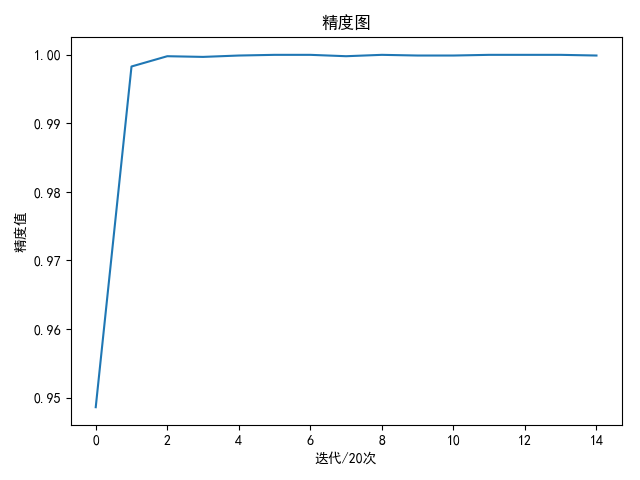
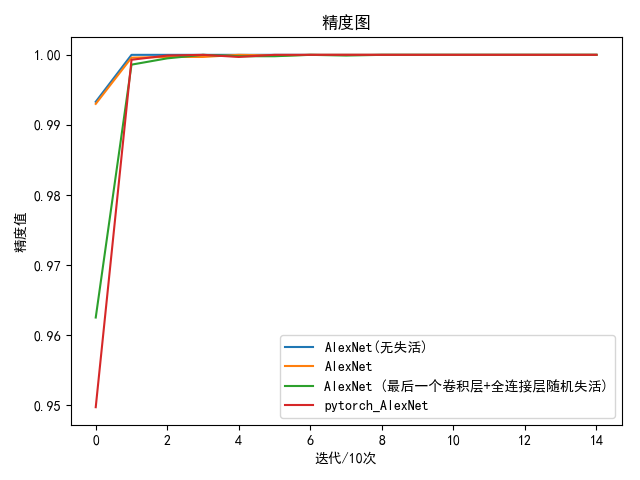
docs(AlexNet): 修改参数，训练多个AlexNet网络并测试

diff --git a/blogs/source/_posts/AlexNet-pytorch.md b/blogs/source/_posts/AlexNet-pytorch.md
@@ -104,6 +104,45 @@ tensor([[[[ 6.,  8.],
 
 `pytorch`提供了一个修改后`AlexNet`实现：[ vision/torchvision/models/alexnet.py ](https://github.com/pytorch/vision/blob/master/torchvision/models/alexnet.py)
 
+```
+class AlexNet(nn.Module):
+
+    def __init__(self, num_classes=1000):
+        super(AlexNet, self).__init__()
+        self.features = nn.Sequential(
+            nn.Conv2d(3, 64, kernel_size=11, stride=4, padding=2),
+            nn.ReLU(inplace=True),
+            nn.MaxPool2d(kernel_size=3, stride=2),
+            nn.Conv2d(64, 192, kernel_size=5, padding=2),
+            nn.ReLU(inplace=True),
+            nn.MaxPool2d(kernel_size=3, stride=2),
+            nn.Conv2d(192, 384, kernel_size=3, padding=1),
+            nn.ReLU(inplace=True),
+            nn.Conv2d(384, 256, kernel_size=3, padding=1),
+            nn.ReLU(inplace=True),
+            nn.Conv2d(256, 256, kernel_size=3, padding=1),
+            nn.ReLU(inplace=True),
+            nn.MaxPool2d(kernel_size=3, stride=2),
+        )
+        self.avgpool = nn.AdaptiveAvgPool2d((6, 6))
+        self.classifier = nn.Sequential(
+            nn.Dropout(),
+            nn.Linear(256 * 6 * 6, 4096),
+            nn.ReLU(inplace=True),
+            nn.Dropout(),
+            nn.Linear(4096, 4096),
+            nn.ReLU(inplace=True),
+            nn.Linear(4096, num_classes),
+        )
+
+    def forward(self, x):
+        x = self.features(x)
+        x = self.avgpool(x)
+        x = x.view(x.size(0), 256 * 6 * 6)
+        x = self.classifier(x)
+        return x
+```
+
 原始`AlexNet`实现如下：
 
 ```
@@ -143,6 +182,17 @@ class AlexNet(nn.Module):
         return x
 ```
 
+**相比于原实现，修改后的`AlexNet`网络减少了第一层滤波器个数（`96->64`）和第四个滤波器个数（`384->256`），在最后一个卷积层和第一个全连接进行了随机失活操作**
+
+### 训练
+
+操作`AlexNet`模型以及`Pytorch`实现，调整参数，训练如下`4`个网络
+
+1. `AlexNet`(无失活)
+2. `AlexNet`
+3. `AlexNet`(最后一个卷积层+全连接层随机失活)
+4. `pytorch_AlexNet`
+
 训练参数如下：
 
 * 批量大小`batch_size=256`
@@ -177,11 +227,51 @@ lr = 1e-2
 
 
 class AlexNet(nn.Module):
-    。。。
-    。。。
+
+    def __init__(self, num_classes=1000):
+        super(AlexNet, self).__init__()
+        self.features = nn.Sequential(
+            nn.Conv2d(3, 96, kernel_size=11, stride=4, padding=0),
+            nn.ReLU(inplace=True),
+            nn.MaxPool2d(kernel_size=3, stride=2),
+            nn.Conv2d(96, 256, kernel_size=5, stride=1, padding=2),
+            nn.ReLU(inplace=True),
+            nn.MaxPool2d(kernel_size=3, stride=2),
+            nn.Conv2d(256, 384, kernel_size=3, stride=1, padding=1),
+            nn.ReLU(inplace=True),
+            nn.Conv2d(384, 384, kernel_size=3, stride=1, padding=1),
+            nn.ReLU(inplace=True),
+            nn.Conv2d(384, 256, kernel_size=3, stride=1, padding=1),
+            nn.ReLU(inplace=True),
+            nn.MaxPool2d(kernel_size=3, stride=2),
+        )
+        self.classifier = nn.Sequential(
+            nn.Dropout(),
+            nn.Linear(256 * 6 * 6, 4096),
+            nn.ReLU(inplace=True),
+            nn.Dropout(),
+
+            nn.Linear(4096, 4096),
+            nn.ReLU(inplace=True),
+            nn.Dropout(),
+
+            nn.Linear(4096, num_classes),
+        )
+
+    def forward(self, x):
+        x = self.features(x)
+        x = x.view(x.size(0), 256 * 6 * 6)
+        x = self.classifier(x)
+        return x
+
+
+class AlexNet_v2(nn.Module):
+    ...
+
 
 def load_cifar_10_data(batch_size=128, shuffle=False):
     data_dir = '/home/lab305/Documents/data/cifar_10/'
+    # data_dir = '/home/zj/zj/data/cifar_10/'
 
     transform = transforms.Compose([
         transforms.Resize((227, 227)),
@@ -217,8 +307,10 @@ if __name__ == '__main__':
     train_loader, test_loader = load_cifar_10_data(batch_size=batch_size, shuffle=True)
 
     device = torch.device("cuda:0" if torch.cuda.is_available() else "cpu")
+    # device = torch.device("cpu")
 
-    net = AlexNet(num_classes=10).to(device)
+    # net = AlexNet(num_classes=10).to(device)
+    net = AlexNet_v2(num_classes=10).to(device)
     criterion = nn.CrossEntropyLoss().to(device)
     optimer = optim.SGD(net.parameters(), lr=lr, momentum=0.9, nesterov=True)
 
@@ -248,8 +340,8 @@ if __name__ == '__main__':
         end = time.time()
 
         avg_loss = total_loss / num
-        loss_list.append(float('%.4f' % avg_loss))
-        print('epoch: %d time: %.2f loss: %.4f' % (i + 1, end - start, avg_loss))
+        loss_list.append(float('%.8f' % avg_loss))
+        print('epoch: %d time: %.2f loss: %.8f' % (i + 1, end - start, avg_loss))
 
         if i % 20 == 19:
             # 计算训练数据集检测精度
@@ -269,12 +361,21 @@ if __name__ == '__main__':
             print(train_list)
 ```
 
-`300`次迭代后结果
+### 测试
 
-```
-best train accuracy: 100.00 %   best test accuracy: 86.81 %
-```
+`300`次训练完成后测试结果如下：
 
-![](/imgs/Alexnet-pytorch/alexnet_loss.png)
+|                                    	| 训练精度 	| 测试精度 	|
+|:----------------------------------:	|:--------:	|:--------:	|
+|           AlexNet(无失活)          	| 100.00 % 	|  80.24 % 	|
+|               AlexNet              	| 100.00 % 	|  84.48 % 	|
+| AlexNet (最后一个卷积层+全连接层随机失活) 	| 100.00 % 	|  87.00 % 	|
+|           pytorch_AlexNet          	| 100.00 % 	|  86.76 % 	|
 
-![](/imgs/Alexnet-pytorch/alexnet_accuracy.png)
+损失值和训练集精度如下：
+
+![](../imgs/Alexnet-pytorch/alexnet_loss.png)
+
+![](../imgs/Alexnet-pytorch/alexnet_accuracy.png)
+
+从测试结果看到，`pytorch`提供的`AlexNet`模型能够提高泛化能力，同时自定义的`AlexNet`模型（最后一个卷积层+全连接层随机失活）能够实现最好的测试精度
